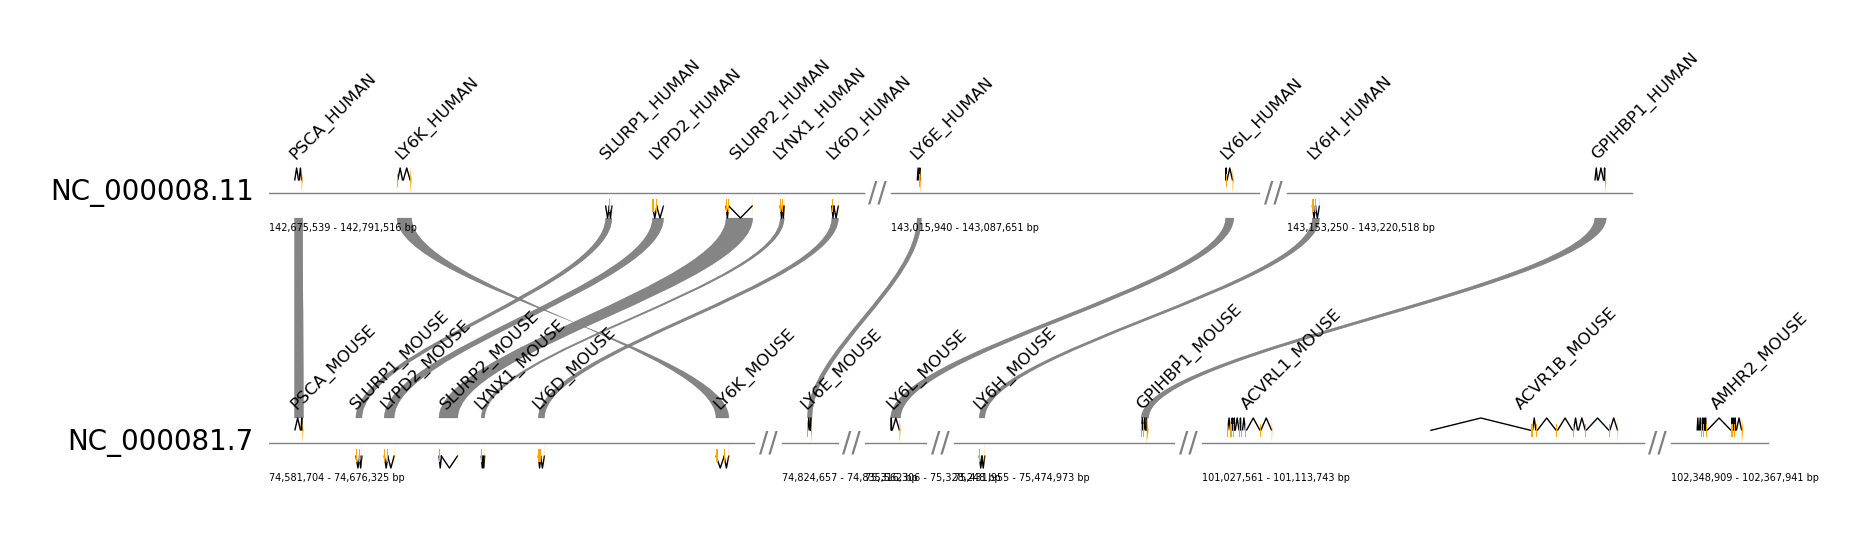
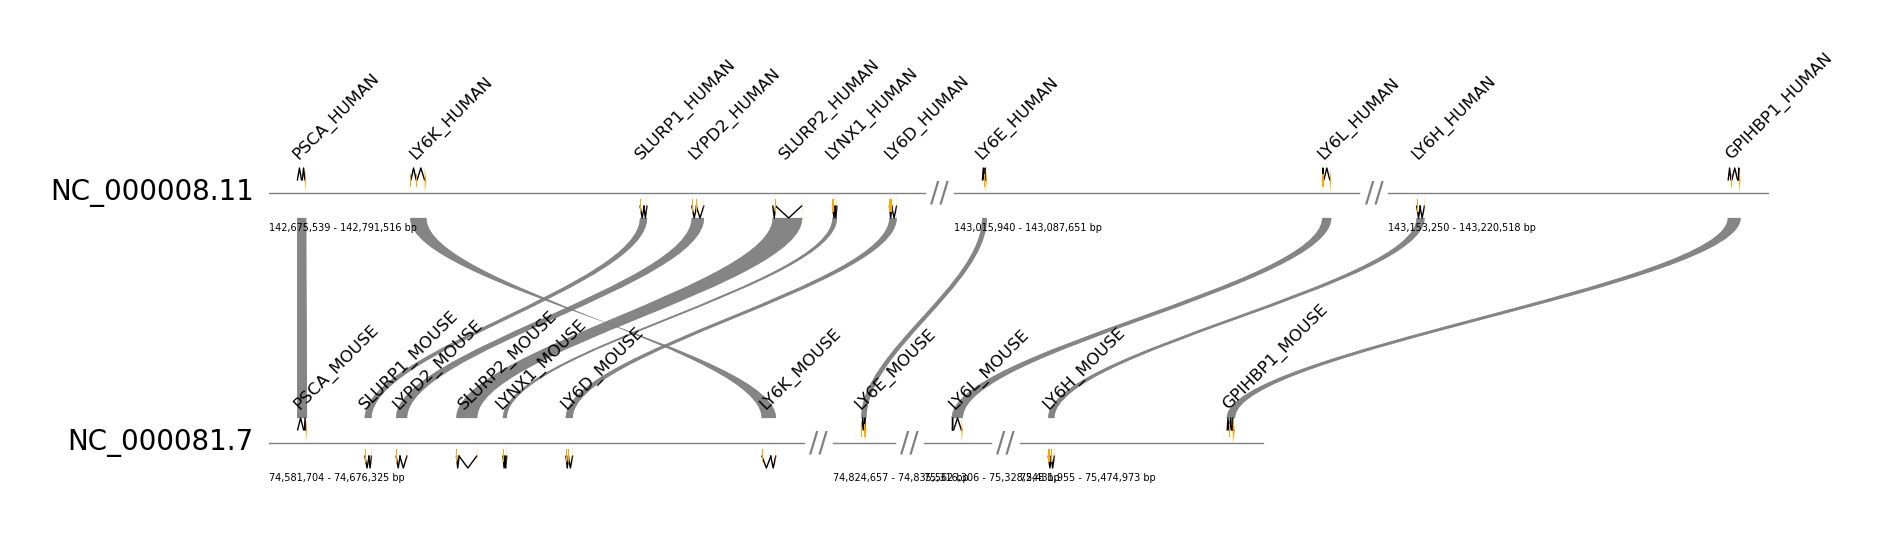
Add argument to creating synteny plot which allows to knock out not wanted genes

diff --git a/src/create_synteny_plot.py b/src/create_synteny_plot.py
@@ -54,7 +54,7 @@ def coordinates2segments(starts: list, stops: list):
     return segments, index_list
 
 
-def extract_collected_info(orgs: [str], superf: str):
+def extract_collected_info(orgs: [str], superf: str, ko_genes: list):
     # convert organism path to df
     dfs = []
     for org in orgs:
@@ -76,6 +76,10 @@ def extract_collected_info(orgs: [str], superf: str):
     for selection in selections:
         # go through intersected genes
         for gene in gene_names:
+            # skip the unwanted genes
+            if gene in ko_genes:
+                continue
+
             try:
                 correct_index = int(selection.at[gene, "correct_index"])
             except ValueError:
@@ -325,6 +329,15 @@ if __name__ == "__main__":
             "Enables displaying of cdss, genes are displayed when disabled"
         )
     )
+    parser.add_argument(
+        "-kos",
+        "--ko_genes",
+        required=False,
+        type=str,
+        help=(
+            "genes that shouldn't be displayed in the synteny plot"
+        )
+    )
     args = parser.parse_args()
 
     # get organisms and superfamily to work with
@@ -333,17 +346,20 @@ if __name__ == "__main__":
     sequence_regions = args.sequence_regions
     output_path = args.output
     cdss_wanted = args.coding_sequences
+    knock_out_genes = args.ko_genes
 
     # convert organisms and sequence regions into list
     organisms = organisms.split(",")
     if sequence_regions:
         sequence_regions = sequence_regions.split(",")
+    if knock_out_genes:
+        knock_out_genes = knock_out_genes.split(",")
 
     # get paths for wanted organisms
     org_paths = get_organism_paths(organisms)
 
     # extract needed infos from .tsv-file
-    seq_reg_list = extract_collected_info(org_paths, superfamily)
+    seq_reg_list = extract_collected_info(org_paths, superfamily, knock_out_genes)
 
     # create the synteny plot
     create_plot(seq_reg_list, sequence_regions, output_path, cdss_wanted)
